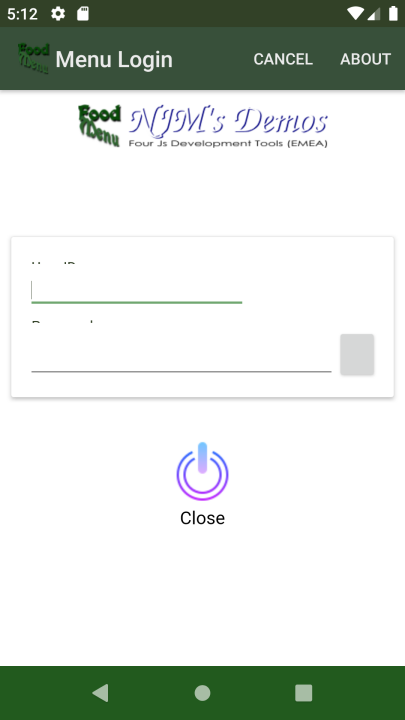
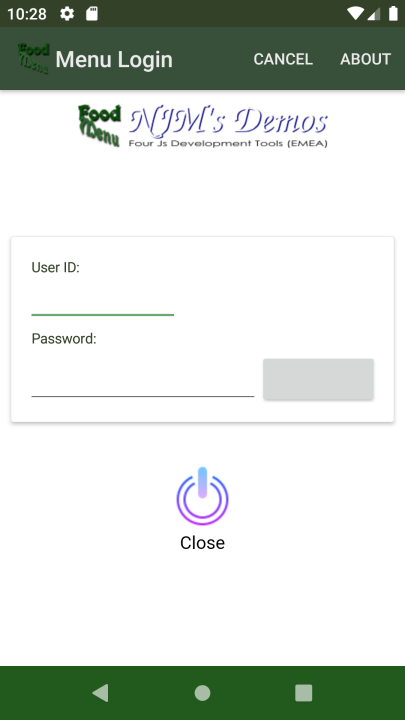
work around login form issue

Changed region(s): [[0.0296, 0.4583, 0.9778, 0.7639], [0.0593, 0.3667, 0.5926, 0.4889], [0.0, 0.0, 0.2667, 0.0306]]

diff --git a/README.md b/README.md
@@ -7,7 +7,7 @@ There are two versions of the program:
 * dynFoodMenu2 - a single .4gl example of just the form generation and input
 
 ## Running on the Android Phone using Native Rendering
-![ss0n](https://github.com/neilm-fourjs/dynFoodMenu/raw/master/screenshots/ss0nat.png "SS0NAT") Bugs logged!
+![ss0n](https://github.com/neilm-fourjs/dynFoodMenu/raw/master/screenshots/ss0nat.png "SS0NAT")
 ![ss1n](https://github.com/neilm-fourjs/dynFoodMenu/raw/master/screenshots/ss1nat.png "SS1NAT")
 ![ss2n](https://github.com/neilm-fourjs/dynFoodMenu/raw/master/screenshots/ss2nat.png "SS2NAT")
 ![ss3n](https://github.com/neilm-fourjs/dynFoodMenu/raw/master/screenshots/ss3nat.png "SS3NAT")
